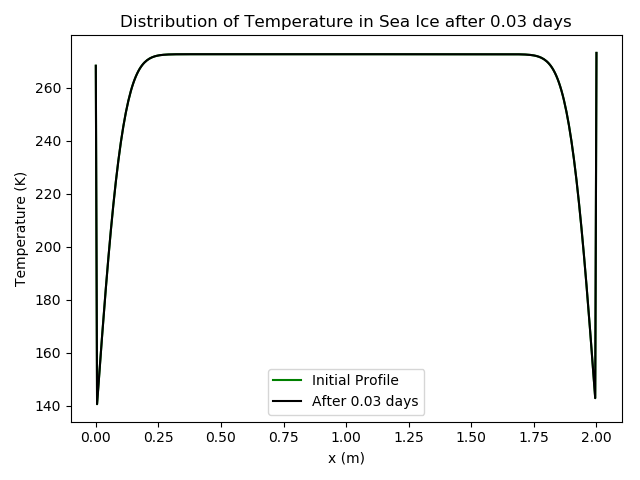
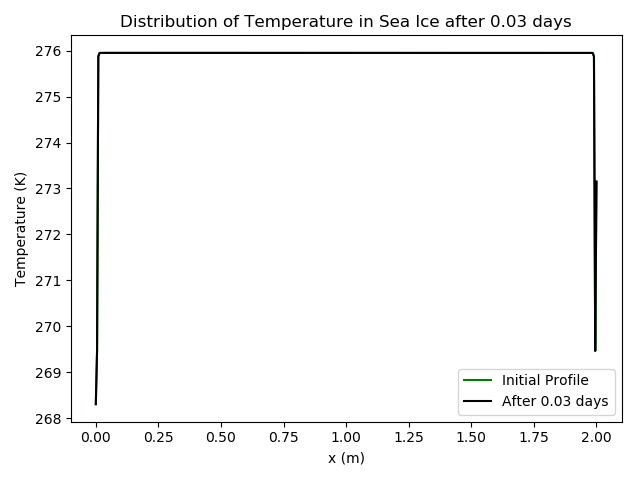
updates

diff --git a/crank-nicolson-solver/simple_crank_nicolson_iceheat.py b/crank-nicolson-solver/simple_crank_nicolson_iceheat.py
@@ -7,7 +7,11 @@ import matplotlib.pyplot as plt
 import imageio
 import os #shutil
 import matplotlib.animation as manimation
+import matplotlib as mpl
+mpl.rcParams.update(mpl.rcParamsDefault)
+
 from scipy import sparse
+from scipy import linalg
 import stat
 
 #%% Physical Constants in SI Units
@@ -51,10 +55,7 @@ diff_time_scale = (float(L**2))/(alpha_ice) #in seconds
 #these do not change during the iterations
 
 A = sparse.diags([-r, 1+2*r, -r], [-1, 0, 1], shape = (n-2,n-2)).toarray()
-B = sparse.diags([r, 1-2*r, r], [-1, 0, 1], shape = (n-2,n-2)).toarray()
-b = np.zeros((n-2))
-b[0]=air_temp(0.0)*r
-b[-1]=273.15*r
+B = sparse.diags([r, 1-r, r], [-1, 0, 1], shape = (n-2,n-2)).toarray()
 #plt.matshow(A)
 #plt.matshow(B)
 
@@ -65,20 +66,23 @@ u = np.full(n, 272.65)
 u[0]=air_temp(0.0)
 u[-1]=273.15
 
+init = np.full(n,272.65)
+init[0]=air_temp(0.0)
+init[-1]=273.15
 #%% Initial and boudnary conditions
 
 # Now we have a initial linear distribution of temperature in the sea ice
 plt.plot(x,u,"g-",label="Initial Profile")
 plt.title("Initial Distribution of Temperature in Sea Ice")
-#plt.close()
+plt.savefig("init_profile.png")
+plt.close()
 
 #initially solve right hand side of matrix equation
-rhs = B.dot(u[1:-1])+b
+rhs = B.dot(u[1:-1])
 
 #Create an empty list for outputs and plots
 top_ice_temp_list = []
 air_temp_list = []
-
 
 #%% Start Iteration and prepare plots
 
@@ -100,14 +104,7 @@ for i in range(0,nt):
     # Run through the CN scheme for interior points
     u[1:-1] = np.linalg.solve(A,rhs)
     
-    #update b vector
-    b[0] = r*u[0]
-    b[-1] = r*u[-1]
-
-    #update the rhs
-    rhs = B.dot(u[1:-1]) + b
-
-    #Now set the top root as the new BC for Tsoln
+    #update u vector
     u[0]=air_temp((i+1)*dt)
     
     #Make sure the bottom BC is still 0 degrees C
@@ -120,12 +117,14 @@ for i in range(0,nt):
     if (i*dt)%120 == 0: #every 60 seconds
         title = str(int((i*dt)//60))
         plt.close()
+        plt.plot(x,u,"g-",label="Initial Profile")
         plt.plot(x,u,"k",label = f"{(i*dt/3600.0)%24:.2f} hours")
         plt.legend(loc=4)
         title1=f"Distribution of Temperature in Sea Ice after {t_days:.2f} days"
         plt.title(title1)
         plt.xlabel("x (m)")
         plt.ylabel("Temperature (K)")
+        plt.legend()
         plt.tight_layout()
         plt.savefig("giffiles/plot"+title+".png")
         plt.close()

diff --git a/explicit-solver/simple_explicit_iceheat.py b/explicit-solver/simple_explicit_iceheat.py
@@ -11,6 +11,9 @@ import imageio
 import os #shutil
 import matplotlib.animation as manimation
 
+import matplotlib as mpl
+mpl.rcParams.update(mpl.rcParamsDefault)
+
 #%% Constants in SI Units
 alpha = 0.3; # albedo
 eps_ice = 0.96; # emissivity
@@ -54,7 +57,7 @@ plt.close()
 
 # Time parameters
 dt = 0.5; # time between iterations, in seconds
-nt = 15000; # amount of iterations
+nt = 5000; # amount of iterations
 t_days = (dt*nt)/86400.0
 
 # Calculate r, want ~0.25, must be < 0.5 (for explicit method)
@@ -75,18 +78,20 @@ for f in filelist:
     os.remove(os.path.join(folder, f))
 
 for i in range(0,nt):
-    # Run through the FTCS with these BC
-    for j in range(1,n):
-        Tsoln[j] = Tsoln_pr[j] + r*(Tsoln_pr[j+1]-2*Tsoln_pr[j]+Tsoln_pr[j-1])
-    
-    # time in seconds to hours on a 24-hour clock will be used for radiation function
-    
     
     print(f"i={i}/{nt}, %={(i/nt)*100:.1f}, hr={(i*dt/3600)%24:.4f}")
     
+    # Run through the FTCS with these BC
+    Tsoln[1:n] = Tsoln[1:n]+r*(Tsoln_pr[2:n+1]-2*Tsoln_pr[1:n]+Tsoln_pr[0:n-1])
+    
+#    for j in range(1,n):
+#        Tsoln[j] = Tsoln_pr[j] + r*(Tsoln_pr[j+1]-2*Tsoln_pr[j]+Tsoln_pr[j-1])
+    
+    # time in seconds to hours on a 24-hour clock will be used for radiation function
+    
+
     #Now set the top root as the new BC for Tsoln
     Tsoln[0]=air_temp((i+1)*dt)
-    
     
     #Make sure the bottom BC is still 0 degrees C
     Tsoln[-1]=273.15
@@ -157,6 +162,10 @@ plt.legend()
 plt.tight_layout()
 plt.savefig("surface_temp_temporal.png")
 plt.close()
+
+
+
+#%% Remove gif files from the folder
 
 folder = "giffiles"
 filelist = [f for f in os.listdir(folder)]
